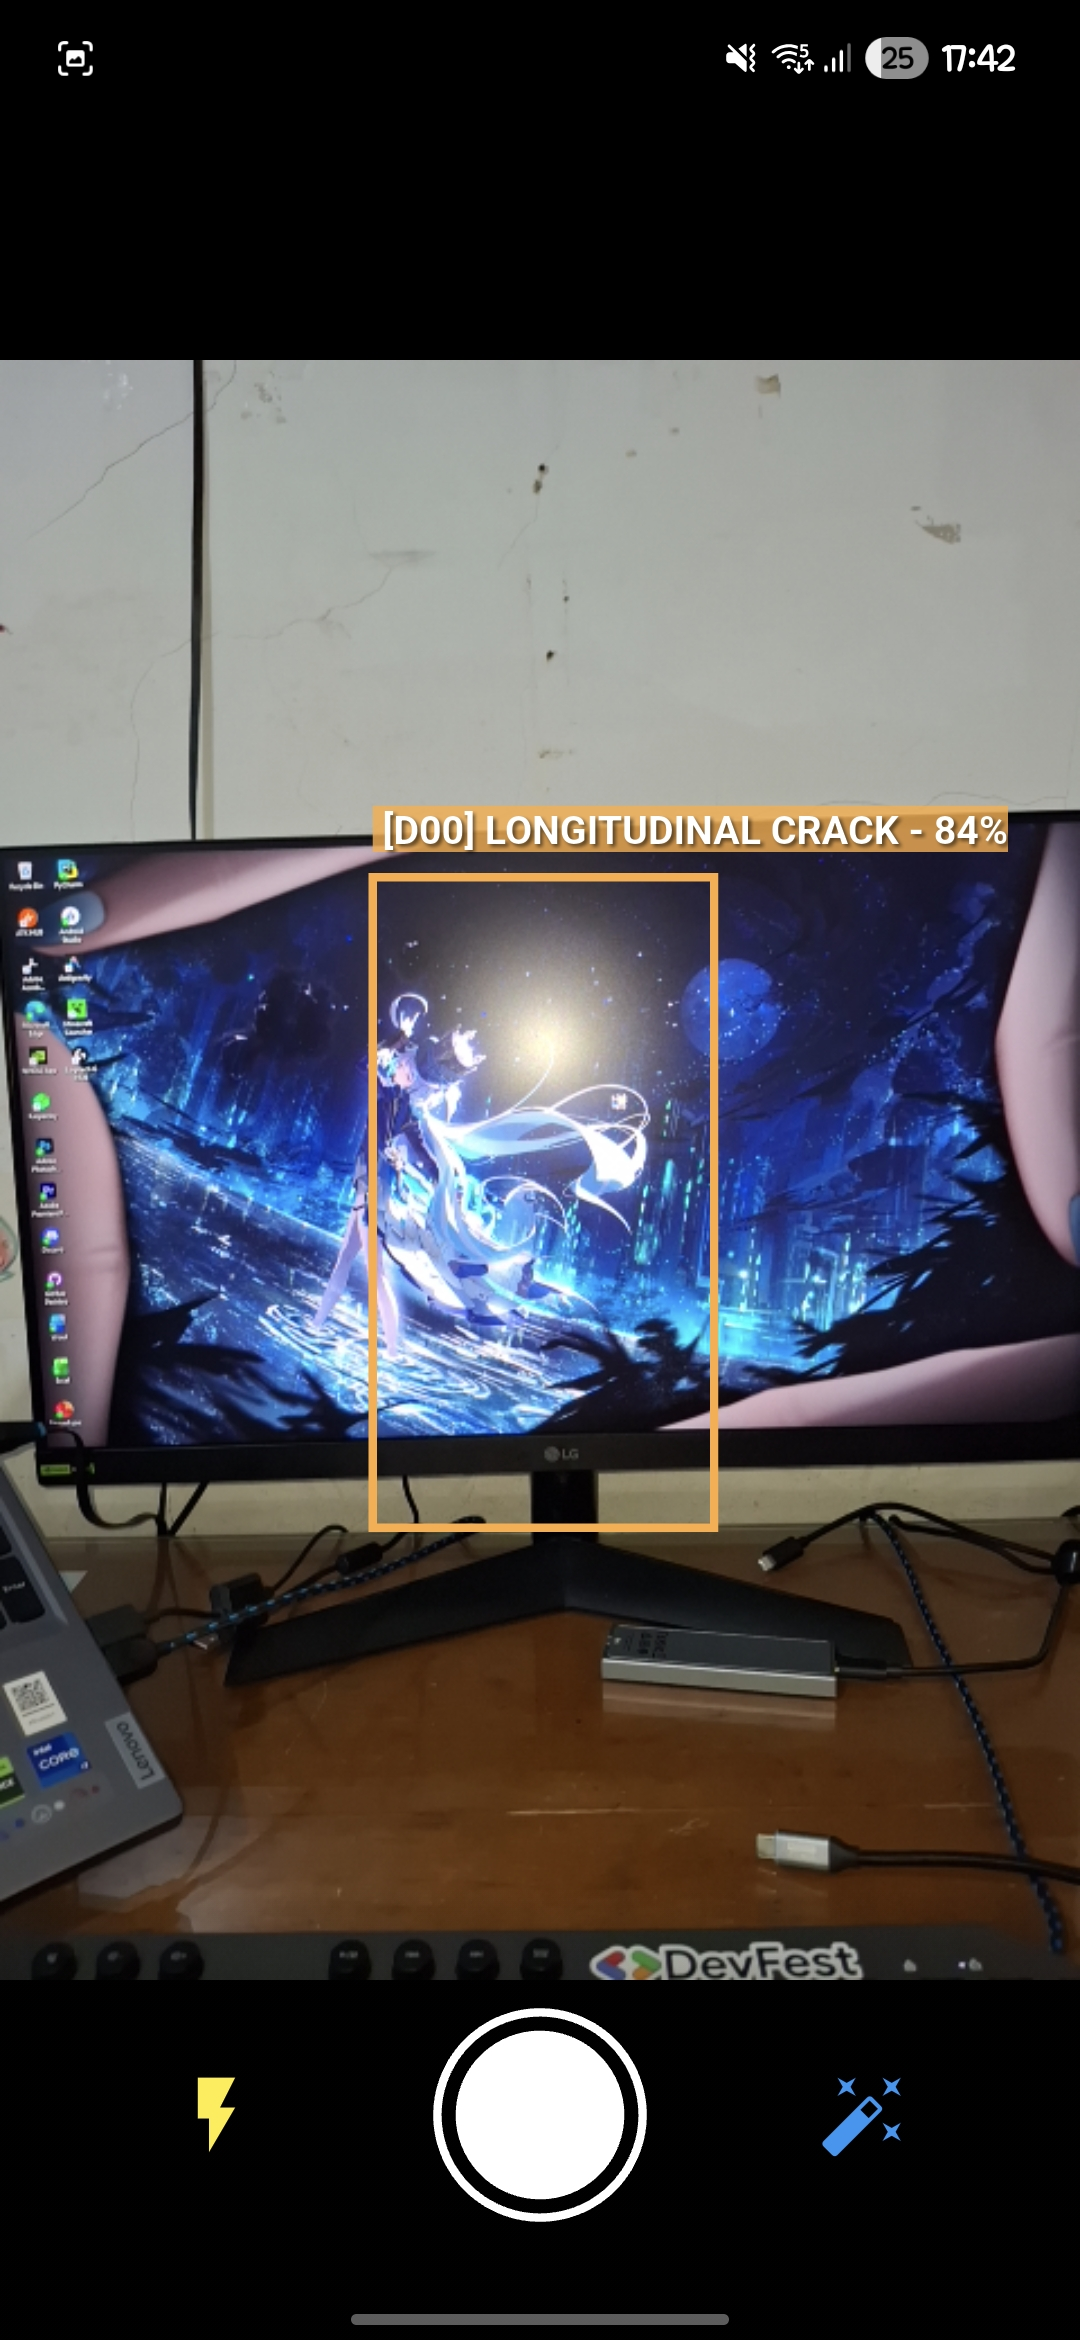
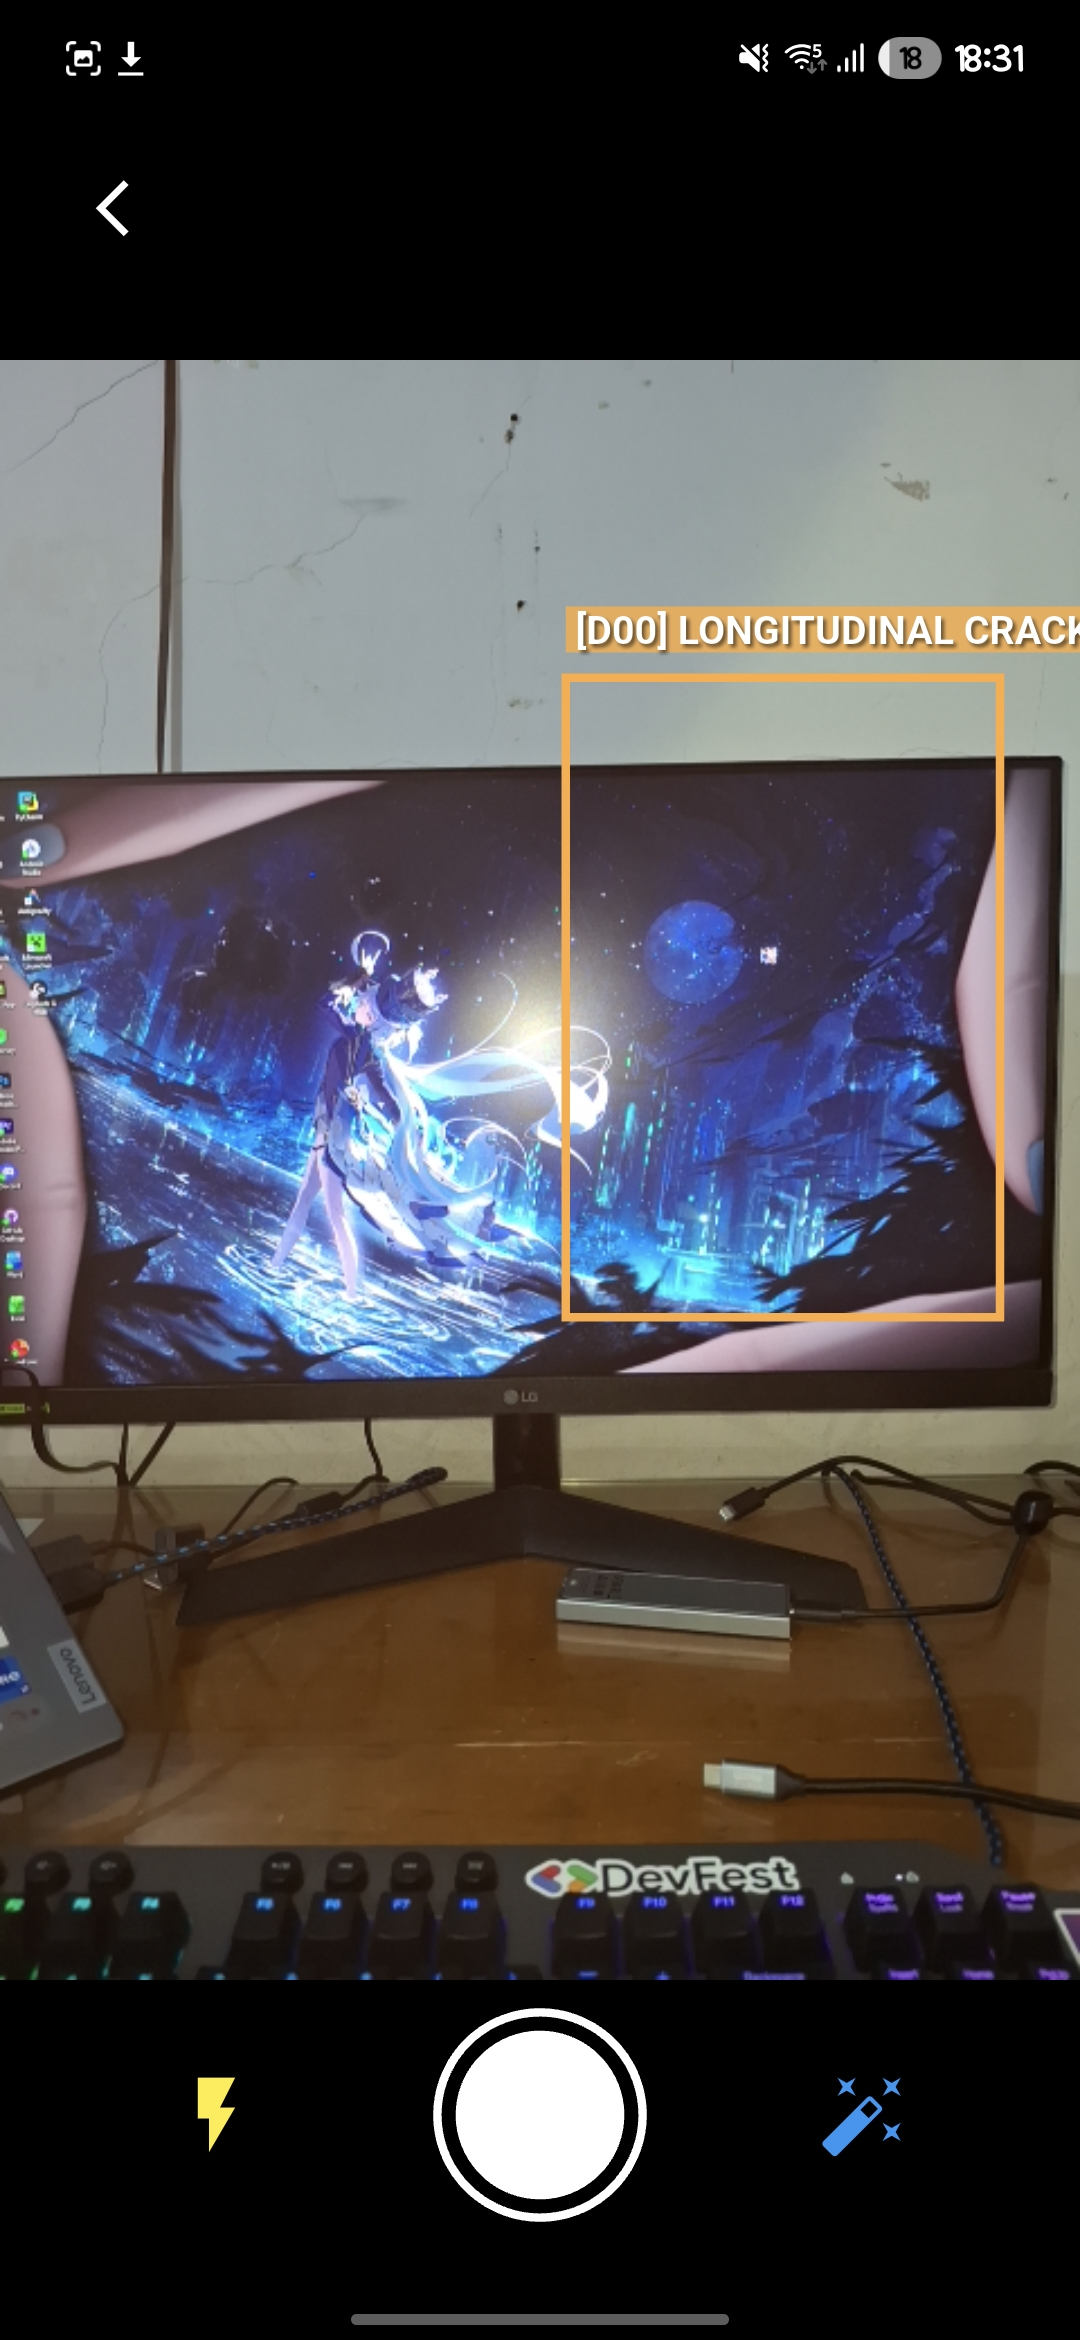
Add back button to vision view for navigation

diff --git a/lib/features/vision/vision_view.dart b/lib/features/vision/vision_view.dart
@@ -45,6 +45,24 @@ class _VisionViewState extends State<VisionView> {
               painter: DamagePainter(_visionController.currentDetection),
             ),
           ),
+        Positioned(
+          top: 50,
+          left: 16,
+          child: Container(
+            decoration: const BoxDecoration(
+              color: Colors.black26,
+              shape: BoxShape.circle,
+            ),
+            child: IconButton(
+              icon: const Icon(
+                Icons.arrow_back_ios_new,
+                color: Colors.white,
+                size: 24,
+              ),
+              onPressed: () => Navigator.pop(context),
+            ),
+          ),
+        ),
 
         // BOTTOM CONTROL AREA: Gradient & Shutter Row
         Positioned(
